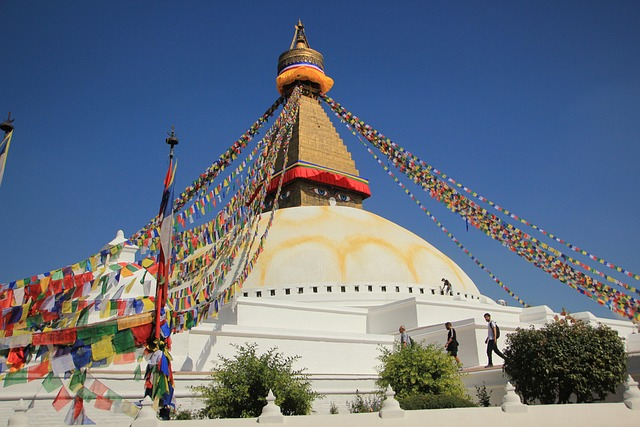
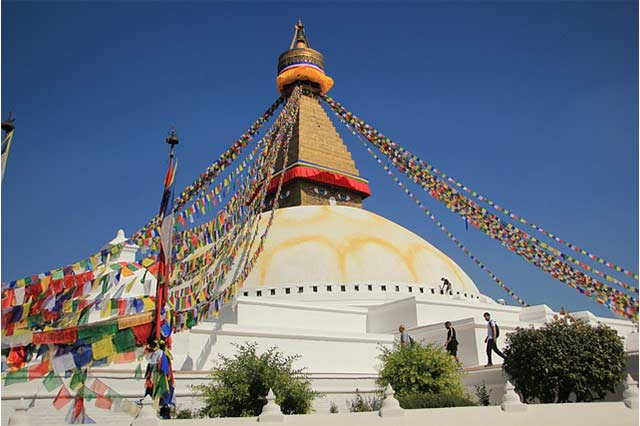
image space save - save me too
opted away from srcset (takes time)
going for tablet size images for overall loadingtime save

diff --git a/pages/adventures.html b/pages/adventures.html
@@ -69,7 +69,7 @@
         <div class="adventure-grid trip-grid">
           <article>
             <img
-              src="../assets/images/nepalidevu-mount-everest-edited.jpg"
+              src="../assets/images/media-img/adventures/nepal-trek-tablet.jpg"
               alt="Hiking in the Himalayas"
             />
             <h3>Nepal Himalayan Trek</h3>
@@ -85,14 +85,8 @@
           </article>
           <article>
             <img
-              src="../assets/images/media-img/home/nepal-trek-desktop.jpg"
-              srcset="
-                ../assets/images/media-img/home/nepal-trek-mobile.jpg   360w,
-                ../assets/images/media-img/home/nepal-trek-tablet.jpg   800w,
-                ../assets/images/media-img/home/nepal-trek-desktop.jpg 1200w
-              "
-              sizes="(max-width: 600px) 100vw, (max-width: 1024px) 50vw, 33vw"
-              alt="Mountain trail in Nepal"
+              src="../assets/images/media-img/adventures/iceland-trek-tablet.jpg"
+              alt="Group hiking icelandic mountain"
             />
             <h3>Iceland Highlands</h3>
             <p><strong>Duration:</strong> 5 Days</p>
@@ -106,7 +100,7 @@
           </article>
           <article>
             <img
-              src="../assets/images/mountaineering-455338_640.jpg"
+              src="../assets/images/media-img/adventures/peru-trek-tablet.jpg"
               alt="Mountain trail in Peru"
             />
             <h3>Peru Andes Expedition</h3>
@@ -121,13 +115,7 @@
           </article>
           <article>
             <img
-              src="../assets/images/media-img/home/norwegian-fjords-dekstop.jpg"
-              srcset="
-                ../assets/images/media-img/home/norwegian-fjords-mobile.jpg   360w,
-                ../assets/images/media-img/home/norwegian-fjords-tablet.jpg   800w,
-                ../assets/images/media-img/home/norwegian-fjords-dekstop.jpg 1200w
-              "
-              sizes="(max-width: 600px) 100vw, (max-width: 1024px) 50vw, 33vw"
+              src="../assets/images/media-img/adventures/norwegian-fjords-tablet.jpg"
               alt="Norwegian fjord landscape"
             />
             <h3>Norwegian Fjord Trek</h3>
@@ -142,7 +130,7 @@
           </article>
           <article>
             <img
-              src="../assets/images/zoshua-colah-XLc-YibwAqc-unsplash.jpg"
+              src="../assets/images/media-img/adventures/marokko-trek-tablet.jpg"
               alt="Atlas Mountains"
             />
             <h3>Atlas Mountain Journey</h3>
@@ -157,7 +145,7 @@
           </article>
           <article>
             <img
-              src="../assets/images/shubham-dhage-biE7yb-vgao-unsplash.jpg"
+              src="../assets/images/media-img/adventures/southern-alps-trek-tablet.jpg"
               alt="Southern Alps"
             />
             <h3>Southern Alps Escape</h3>
